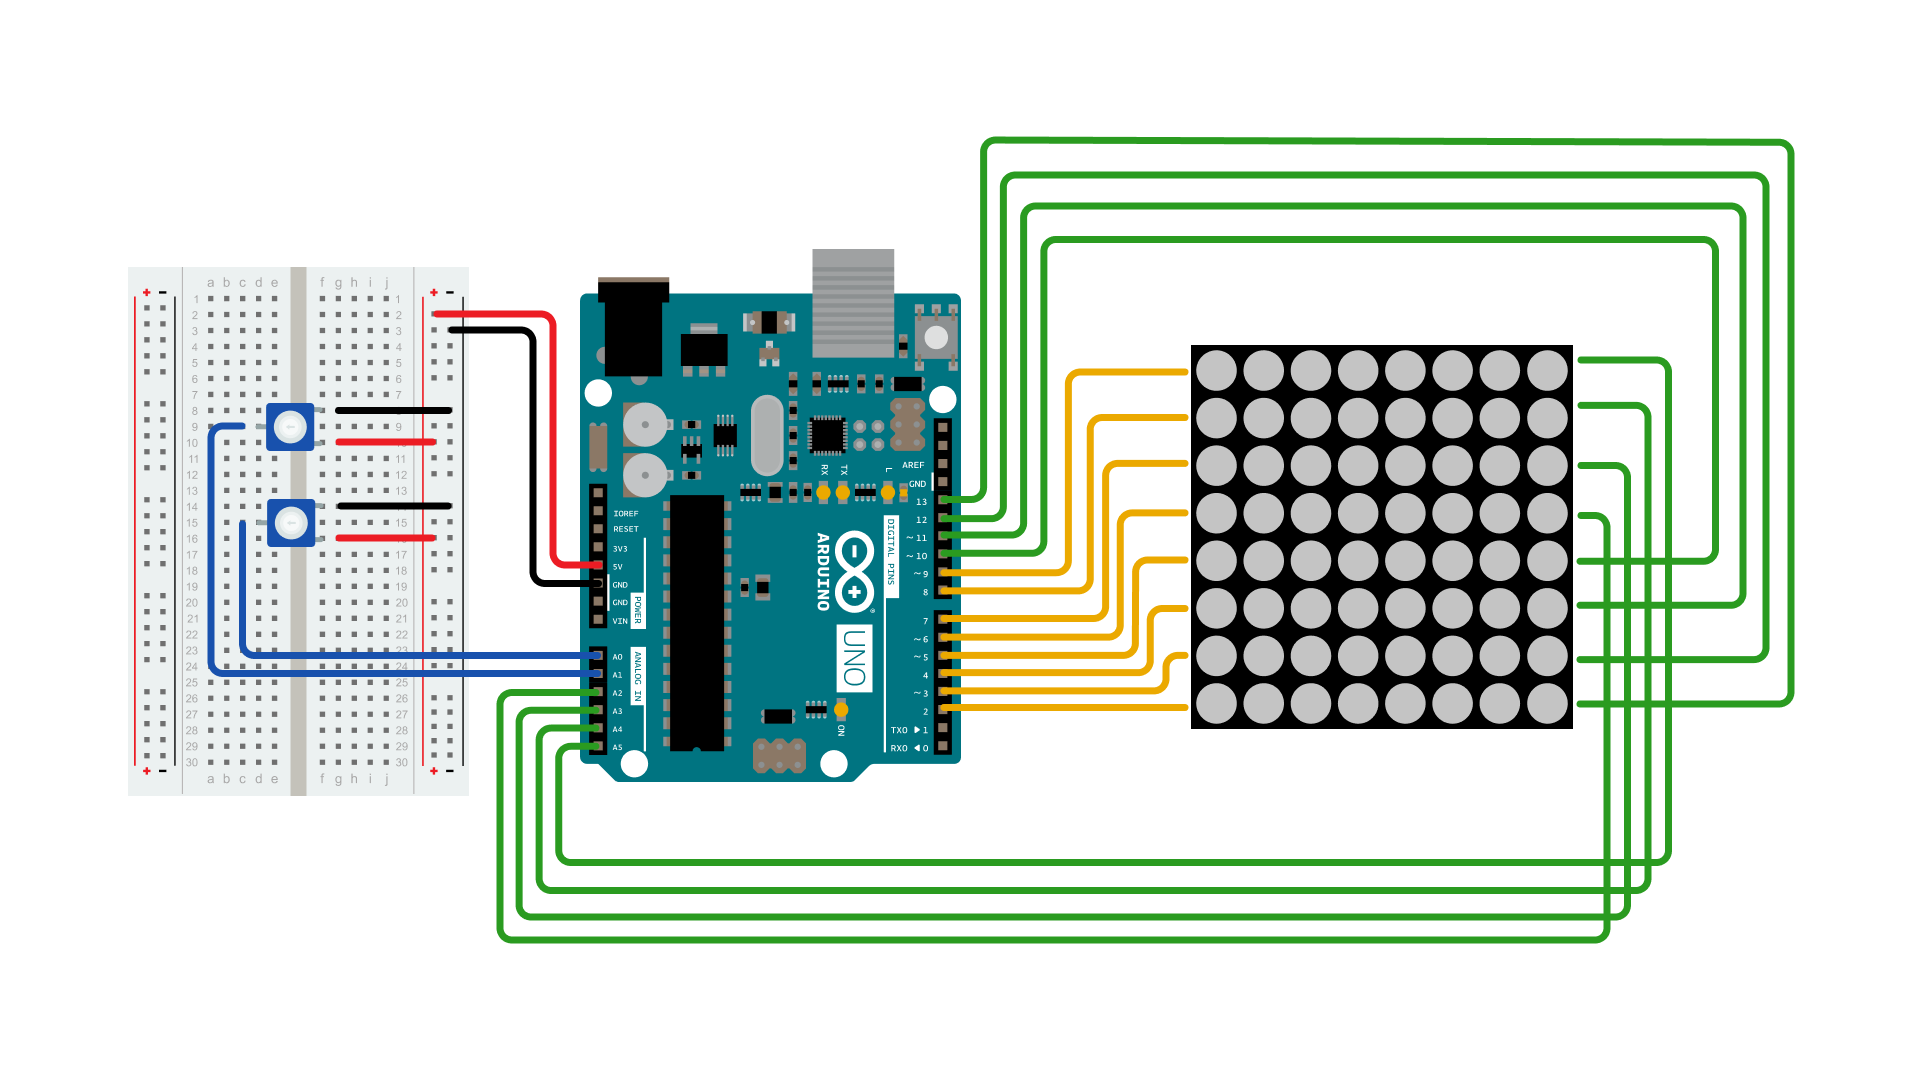
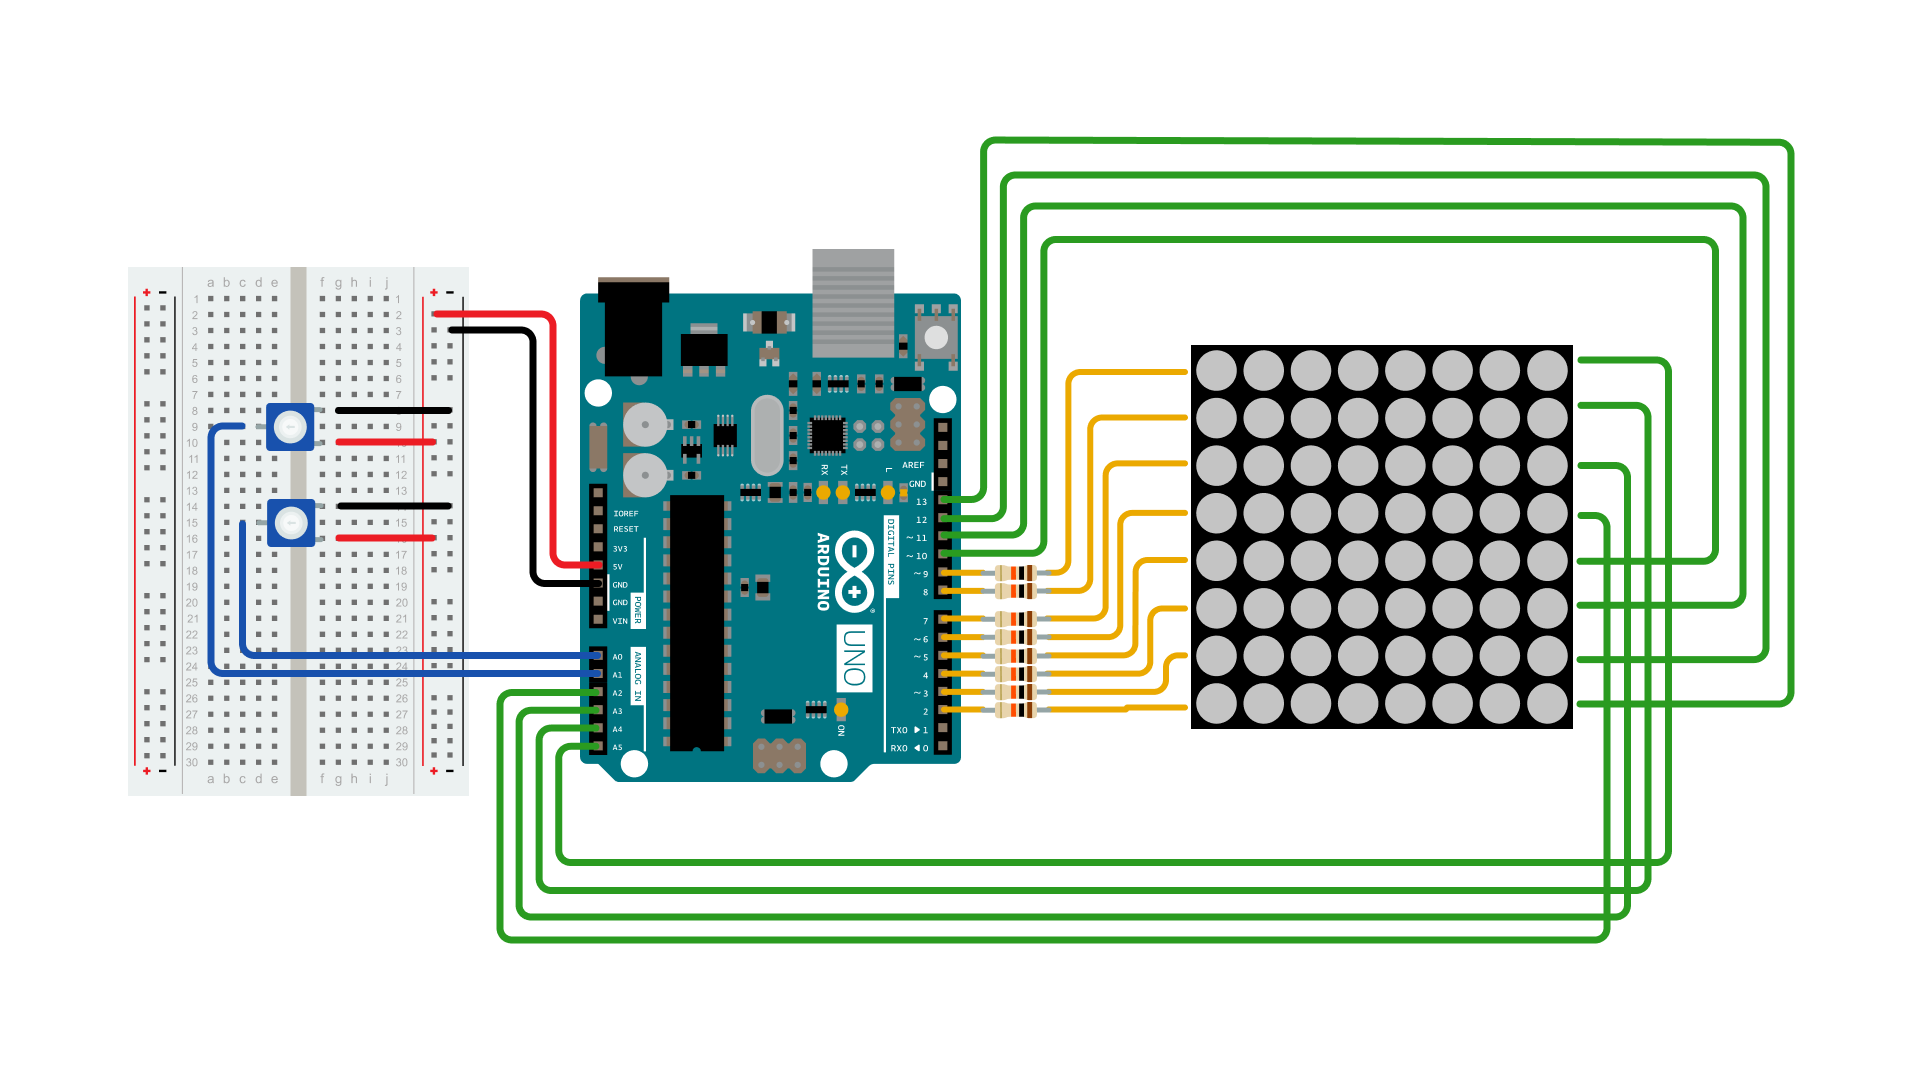
updated circuit and added note

Changed region(s): [[0.5, 0.4278, 0.5938, 0.6722]]

diff --git a/content/built-in-examples/07.display/RowColumnScanning/RowColumnScanning.md b/content/built-in-examples/07.display/RowColumnScanning/RowColumnScanning.md
@@ -14,7 +14,6 @@ LED displays are often packaged as matrixes of LEDs arranged in rows of common a
 
 ![](assets/8x8-LED-Matrix.png)
 
-
 These can be very useful displays. To control a matrix, you connect both its rows and columns to your microcontroller. The columns are connected to the LEDs cathodes (see Figure 1), so a column needs to be LOW for any of the LEDs in that column to turn on.  The rows are connected to the LEDs anodes, so the row needs to be HIGH for an individual LED to turn on. If the row and the column are both high or both low, no voltage flows through the LED and it doesn't turn on.
 
 To control an individual LED, you set its column LOW and its row HIGH.  To control multiple LEDs in a row, you set the row HIGH, then take the column high, then set the columns LOW or HIGH as appropriate; a LOW column will turn the corresponding LED ON, and a HIGH column will turn it off.
@@ -49,29 +48,26 @@ Here's a matrix of the pin connections, based on the diagram above:
 ### Hardware Required
 
 - Arduino Board
-
 - 8 x 8 LED Matrix
-
 - 2 10k ohm potentiometers
-
 - hook-up wires
-
 - breadboard
+- 8 10kΩ resistors
 
 ### Circuit
 
-The 16 pins of the matrix are hooked up to 16 pins of the Arduino board.  Four of the analog pins are used as digital inputs 16 through 19.  The order of the pins is assigned in two arrays in the code.
+The 16 pins of the matrix are hooked up to 16 pins of the Arduino board.  Four of the analog pins are used as digital inputs 16 through 19. The order of the pins is assigned in two arrays in the code.
 
 Two potentiometers, connected to analog pins 0 and 1,  control the movement of a lit LED in the matrix.
 
+To keep your LED matrix from burning, add 8 10kΩ resistors to the wires connected in yellow in the image below.
 
-![](assets/circuit.png)
+![Circuit diagram of the LED matrix.](assets/circuit.png)
 
 
 ### Schematic
 
-
-![](assets/schematic.png)
+![Schematic of the LED matrix.](assets/schematic.png)
 
 ### Code
 
@@ -82,5 +78,3 @@ Two potentiometers, connected to analog pins 0 and 1,  control the movement of a
 You can find more basic tutorials in the [built-in examples](/built-in-examples) section.
 
 You can also explore the [language reference](https://www.arduino.cc/reference/en/), a detailed collection of the Arduino programming language.
-
-*Last revision 2015/07/29 by SM*
